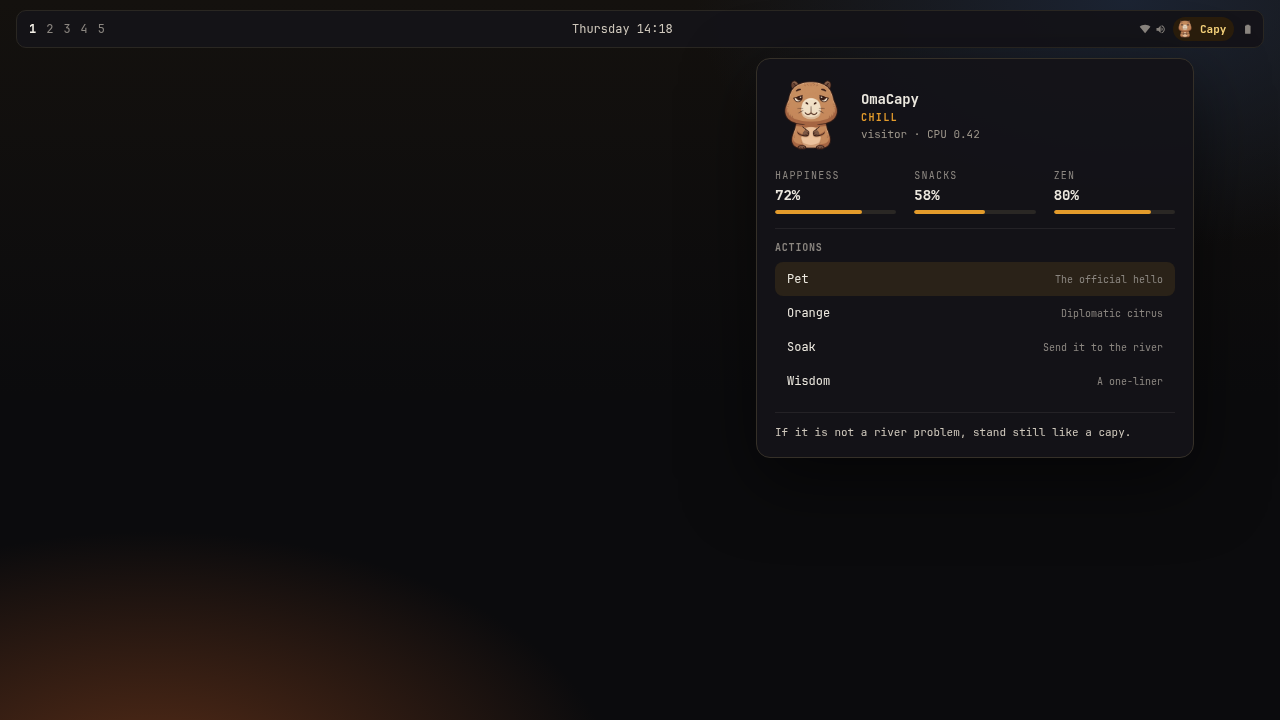
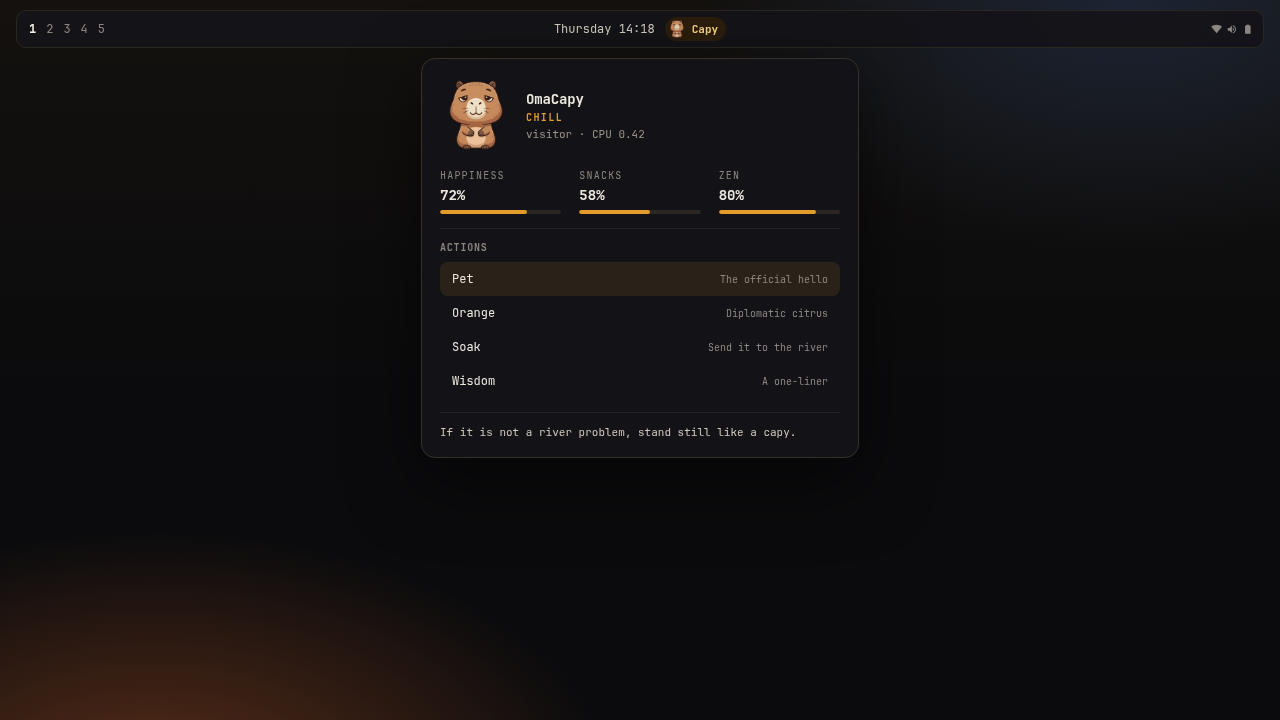
Center the lounge on the bar and in the store preview

diff --git a/scripts/preview.html b/scripts/preview.html
@@ -21,16 +21,18 @@
     }
     .bar {
       position: absolute; left: 16px; right: 16px; top: 10px; height: 36px;
-      display: flex; align-items: center; justify-content: space-between;
+      display: grid; grid-template-columns: 1fr auto 1fr;
+      align-items: center;
       padding: 0 12px;
       border-radius: 10px;
       background: #141318f0;
       border: 1px solid #2a2722;
     }
+    .mid { display: flex; align-items: center; gap: 10px; justify-self: center; }
     .ws { display: flex; gap: 10px; color: #8b8680; font-size: 12px; }
     .ws b { color: #f3efe6; }
     .clock { color: #cfc8bc; font-size: 12px; }
-    .right { display: flex; align-items: center; gap: 10px; color: #8b8680; font-size: 11px; }
+    .right { display: flex; align-items: center; justify-content: flex-end; gap: 10px; color: #8b8680; font-size: 11px; }
     .badge {
       display: flex; align-items: center; gap: 6px;
       height: 24px; padding: 0 8px 0 3px;
@@ -41,7 +43,8 @@
     .badge img { width: 18px; height: 18px; object-fit: contain; }
 
     .panel {
-      position: absolute; right: 86px; top: 58px; width: 400px;
+      position: absolute; left: 50%; top: 58px; width: 400px;
+      transform: translateX(-50%);
       padding: 18px 18px 16px;
       border-radius: 14px;
       background: #141318f5;
@@ -76,11 +79,12 @@
   <div class="desk">
     <div class="bar">
       <div class="ws"><b>1</b><span>2</span><span>3</span><span>4</span><span>5</span></div>
-      <div class="clock">Thursday 14:18</div>
-      <div class="right">
-        <span></span><span></span>
+      <div class="mid">
+        <div class="clock">Thursday 14:18</div>
         <div class="badge"><img src="../capy.png" alt="">Capy</div>
-        <span></span>
+      </div>
+      <div class="right">
+        <span></span><span></span><span></span>
       </div>
     </div>
     <section class="panel">

diff --git a/Panel.qml b/Panel.qml
@@ -279,6 +279,7 @@ Panel {
     owner: root
     bar: root.bar
     open: root.opened
+    centerOnBar: true
     focusTarget: keyCatcher
     contentWidth: panel.fittedContentWidth(Style.space(360))
     contentHeight: panel.fittedContentHeight(column.implicitHeight)
